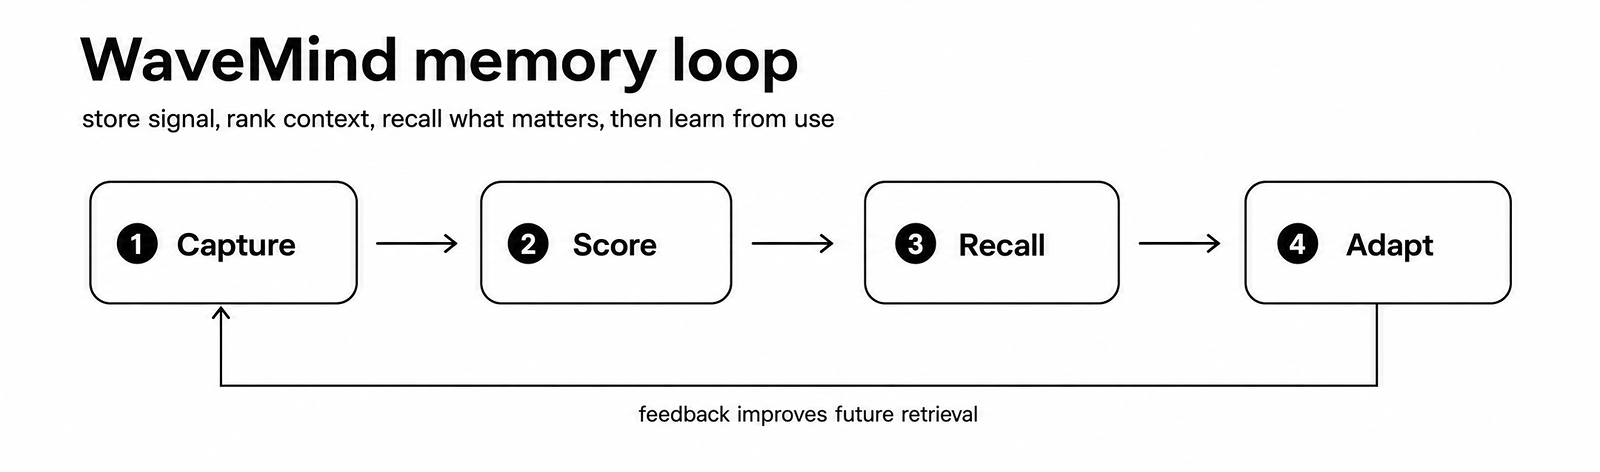
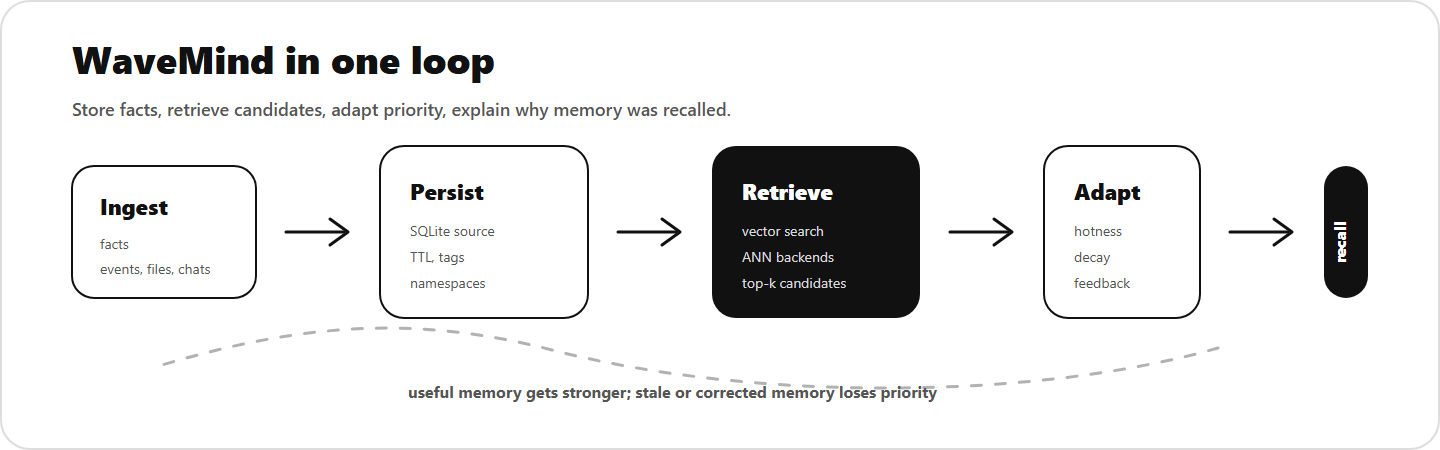
Polish GitHub profile presentation

diff --git a/README.md b/README.md
@@ -1,59 +1,84 @@
 <p align="center">
   <a href="https://github.com/CaspianG/wavemind">
-    <img src="./assets/header.png" alt="CaspianG builds dynamic memory systems" width="100%" />
+    <img src="./assets/header.png" alt="CaspianG builds adaptive memory systems" width="100%" />
   </a>
 </p>
 
 <h1 align="center">CaspianG</h1>
 
 <p align="center">
-  <strong>Building memory infrastructure for software that needs durable context, adaptive recall, and clear evidence.</strong>
+  <strong>I build memory infrastructure for software that has to keep context, adapt over time, and stay inspectable.</strong>
 </p>
 
 <p align="center">
   <a href="https://github.com/CaspianG/wavemind"><img alt="WaveMind" src="https://img.shields.io/badge/WaveMind-dynamic%20memory-111111?style=for-the-badge"></a>
   <a href="https://pypi.org/project/wavemind/"><img alt="PyPI" src="https://img.shields.io/pypi/v/wavemind?style=for-the-badge&label=PyPI&color=111111"></a>
-  <a href="https://github.com/CaspianG/wavemind/actions"><img alt="Checks" src="https://img.shields.io/github/actions/workflow/status/CaspianG/wavemind/full-check.yml?branch=main&style=for-the-badge&label=checks&color=111111"></a>
+  <a href="https://github.com/CaspianG/wavemind/actions/workflows/full-check.yml"><img alt="Checks" src="https://img.shields.io/github/actions/workflow/status/CaspianG/wavemind/full-check.yml?branch=main&style=for-the-badge&label=checks&color=111111"></a>
   <a href="https://github.com/CaspianG/wavemind/releases"><img alt="Release" src="https://img.shields.io/github/v/release/CaspianG/wavemind?style=for-the-badge&label=release&color=111111"></a>
 </p>
 
 <p align="center">
   <a href="https://github.com/CaspianG/wavemind"><strong>WaveMind</strong></a>
-  &nbsp;&middot;&nbsp;
+  &nbsp;|&nbsp;
   <a href="https://pypi.org/project/wavemind/">PyPI</a>
-  &nbsp;&middot;&nbsp;
-  <a href="https://www.github.com/CaspianG/wavemind#quick-start">Quick Start</a>
-  &nbsp;&middot;&nbsp;
-  <a href="https://www.github.com/CaspianG/wavemind#benchmark">Benchmarks</a>
-  &nbsp;&middot;&nbsp;
-  <a href="https://www.github.com/CaspianG/wavemind#contributing">Contributing</a>
+  &nbsp;|&nbsp;
+  <a href="https://github.com/CaspianG/wavemind#user-content-quick-start">Quick Start</a>
+  &nbsp;|&nbsp;
+  <a href="https://github.com/CaspianG/wavemind#user-content-benchmark">Benchmarks</a>
+  &nbsp;|&nbsp;
+  <a href="https://github.com/CaspianG/wavemind/issues">Issues</a>
 </p>
 
 ---
 
 <table>
   <tr>
+    <td width="33%" valign="top">
+      <h3>Adaptive Memory</h3>
+      <p>
+        Memory should not be a static top-k lookup. Useful context should get easier
+        to recall. Stale context should fade. Corrections should suppress old facts.
+      </p>
+    </td>
+    <td width="33%" valign="top">
+      <h3>Local First</h3>
+      <p>
+        I prefer tools that can run on one machine, expose clear data files, and scale
+        only when the workload proves it needs scale.
+      </p>
+    </td>
+    <td width="33%" valign="top">
+      <h3>Evidence Driven</h3>
+      <p>
+        Benchmarks, packaging checks, CI gates, reproducible artifacts, and honest
+        limits are part of the product, not an afterthought.
+      </p>
+    </td>
+  </tr>
+</table>
+
+## Flagship Project
+
+<table>
+  <tr>
     <td width="56%" valign="top">
-      <h2>Current Work</h2>
+      <h3><a href="https://github.com/CaspianG/wavemind">WaveMind</a></h3>
       <p>
-        I am building <a href="https://github.com/CaspianG/wavemind"><strong>WaveMind</strong></a>:
-        an open-source memory layer for long-running applications, agents, notebooks,
-        internal copilots, research tools, and systems that need context to survive
-        beyond a single prompt.
+        WaveMind is an open-source memory engine for long-running software:
+        assistants, notebooks, internal copilots, support systems, research tools,
+        and products that need context to survive beyond one session.
       </p>
       <p>
-        The core idea is simple: memory should not be a static vector lookup.
-        Important memories should become easier to recall, stale facts should fade,
-        corrections should suppress older context, and every recall should be
-        inspectable.
+        The core loop is simple: store facts, search candidates, apply dynamic
+        priority, return explainable recalls, then learn from usage.
       </p>
       <p>
-        Current focus: scale, benchmark evidence, production readiness, graph recall,
-        observability, and practical integrations.
+        Current work: production-scale planning, ANN backends, graph recall,
+        observability, benchmark evidence, and framework integrations.
       </p>
     </td>
     <td width="44%" valign="top">
-      <h2>Try It</h2>
+      <h3>Try it in 30 seconds</h3>
       <pre><code class="language-bash">pip install wavemind</code></pre>
       <pre><code class="language-python">from wavemind import WaveMind
 
@@ -68,33 +93,33 @@ print(hit.text)</code></pre>
 
 <p align="center">
   <a href="https://github.com/CaspianG/wavemind">
-    <img src="./assets/wavemind-map.png" alt="WaveMind memory architecture" width="100%" />
+    <img src="./assets/wavemind-map.png" alt="WaveMind memory loop" width="100%" />
   </a>
 </p>
 
-## What I Build
+## What I Am Building
 
-| Area | Focus |
+| Direction | Why it matters |
 | --- | --- |
-| Dynamic memory | Hotness, decay, TTL, feedback, conflict handling, consolidation, and graph-aware recall. |
-| Local-first infrastructure | SQLite source of truth, optional ANN indexes, simple APIs, offline demos, reproducible artifacts. |
-| Production evidence | Benchmarks, latency profiles, packaging checks, CI gates, and documented limits. |
-| Developer adoption | Small APIs, framework adapters, migration guides, issue hygiene, and contributor-friendly tasks. |
+| Dynamic recall | Hotness, decay, TTL, feedback, conflict handling, consolidation, and graph-aware recall. |
+| Production memory | SQLite source of truth, optional ANN indexes, service mode, backups, auth, and observable APIs. |
+| Benchmark evidence | LoCoMo, LongMemEval, BEIR-style retrieval, scale plans, artifact audits, and CI-backed regression checks. |
+| Developer adoption | Small APIs, CLI, FastAPI, LangChain, LlamaIndex, migration guides, and examples that run without guesswork. |
 
-## Featured
+## Projects
 
-| Project | What it is | Status |
+| Project | Focus | Status |
 | --- | --- | --- |
-| [WaveMind](https://github.com/CaspianG/wavemind) | Dynamic long-term memory for agents, notebooks, internal tools, support systems, and products with durable context. | Active |
+| [WaveMind](https://github.com/CaspianG/wavemind) | Dynamic long-term memory for software with durable context. | Active |
 | [focus-flow](https://github.com/CaspianG/focus-flow) | Minimal desktop focus timer for deep-work sessions with English/Russian UI. | Stable |
-| [CORECITY](https://github.com/CaspianG/CORECITY) | Browser game concept around a living market mechanic. | Public archive |
+| [CORECITY](https://github.com/CaspianG/CORECITY) | Browser game concept built around a living market mechanic. | Public archive |
 
 ## Working Principles
 
 - Build the useful path first, then prove it under real workloads.
 - Keep local development fast, inspectable, and easy to run.
-- Treat benchmarks, tests, packaging, and reproducibility as part of the product.
-- Make forgetting, provenance, and namespace isolation first-class primitives.
+- Treat forgetting, provenance, and namespace isolation as first-class primitives.
+- Prefer simple APIs over clever abstractions that make systems harder to operate.
 - Avoid claims that do not have runnable artifacts behind them.
 
 ## Stack
